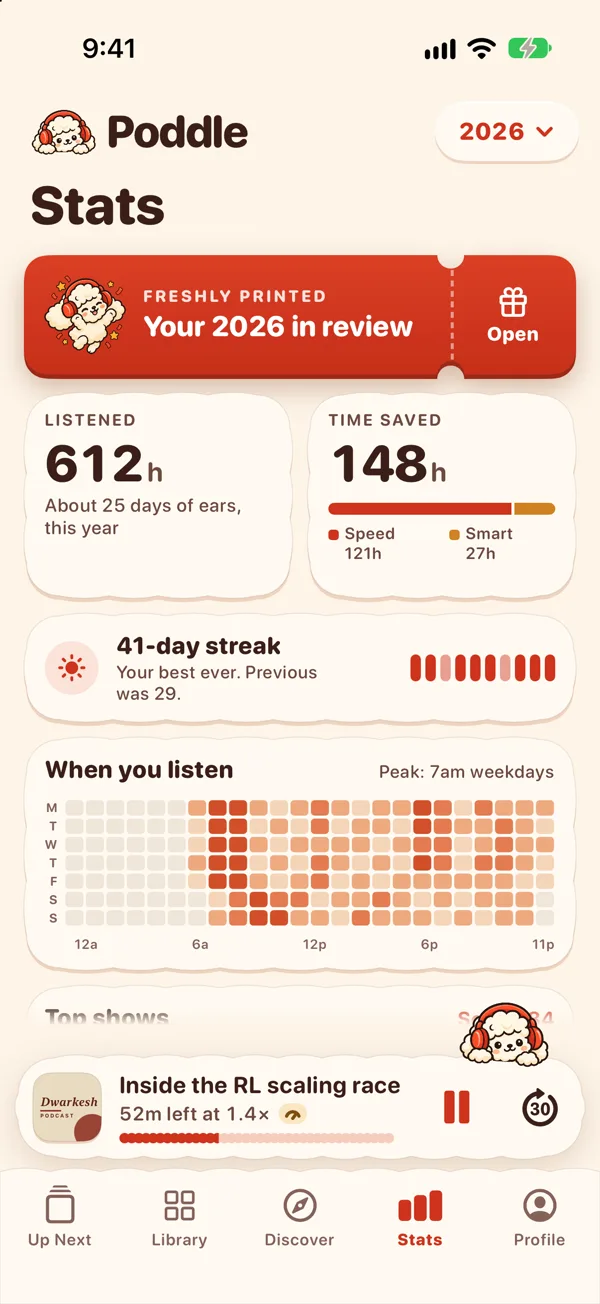
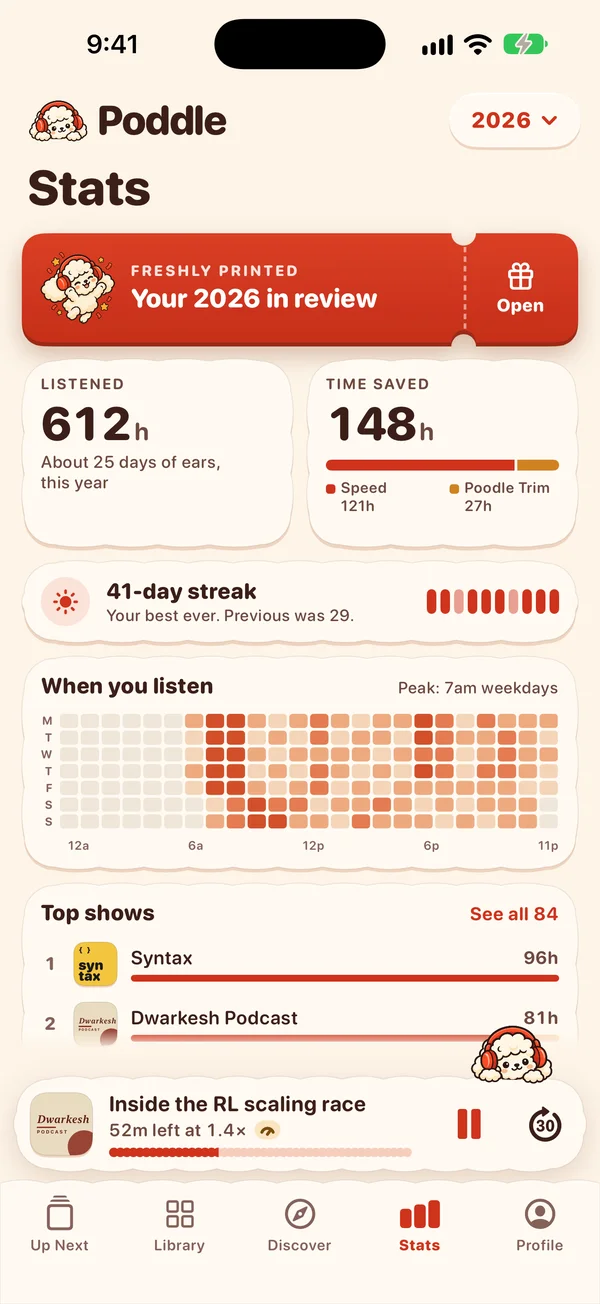
1.0.1: Poodle Trim and Even Volume in the app, and the release notes (#15)
* 1.0.1: Poodle Trim and Even Volume in the app, and release notes

Smart Speed and Voice Boost are Overcast's names, and the website and App Store
listing already say Poodle Trim and Even Volume (#7). Settings, show settings,
the Now Playing settings page, the Stats legend and the Year in Review receipt
and share text now match. Code identifiers and database fields stay as they are.

The version goes to 1.0.1, appstore/metadata.json gets "What's New" (sent by
appstore-metadata.mjs), and the runbook has the steps for shipping an update.
The Support page's note about the old names now reads true either side of the
release, so the site can deploy whenever.

* Website screens with Poodle Trim and Even Volume, and the runbook on what a new version copies

---------

diff --git a/App/Features/NowPlaying/PlaybackSettingsPage.swift b/App/Features/NowPlaying/PlaybackSettingsPage.swift
@@ -160,13 +160,13 @@ struct PlaybackSettingsPage: View {
     private var toggles: some View {
         GroupCard {
             Toggle(isOn: Binding(get: { r.smartSpeed.value }, set: { v in edit({ $0.smartSpeed = v }, { $0.smartSpeed = v }) })) {
-                cellLabel("Smart Speed", "Trims silences · \(Format.saved(player.smartSaved)) saved this episode", icon: "waveform.path", tint: Palette.mustard)
+                cellLabel("Poodle Trim", "Trims silences · \(Format.saved(player.smartSaved)) saved this episode", icon: "waveform.path", tint: Palette.mustard)
             }
             .toggleStyle(.poddle)
             .accessibilityIdentifier("playbackSettings.smartSpeed")
             .padding(.horizontal, 16).frame(minHeight: 60)
             Toggle(isOn: Binding(get: { r.voiceBoost.value }, set: { v in edit({ $0.voiceBoost = v }, { $0.voiceBoost = v }) })) {
-                cellLabel("Voice Boost", "Evens out loud and quiet voices", icon: "speaker.wave.2", tint: Palette.fern)
+                cellLabel("Even Volume", "Evens out loud and quiet voices", icon: "speaker.wave.2", tint: Palette.fern)
             }
             .toggleStyle(.poddle)
             .accessibilityIdentifier("playbackSettings.voiceBoost")

diff --git a/App/Features/YearInReview/YearInReviewView.swift b/App/Features/YearInReview/YearInReviewView.swift
@@ -135,7 +135,7 @@ struct YearInReviewView: View {
     }
 
     private func shareText(_ r: YearInReview) -> String {
-        "I listened to \(Format.hours(r.listenedSeconds)) of podcasts in \(r.year) and got \(Format.hours(r.savedSeconds)) back with speed and Smart Speed."
+        "I listened to \(Format.hours(r.listenedSeconds)) of podcasts in \(r.year) and got \(Format.hours(r.savedSeconds)) back with speed and Poodle Trim."
     }
 }
 
@@ -269,7 +269,7 @@ private struct ReceiptCard: View {
             dash
             line("TOTAL LISTENED", Format.hours(review.listenedSeconds)).font(.mono(14, .heavy))
             line("SAVED BY SPEED", "−" + Format.hours(review.savedBySpeedSeconds)).foregroundStyle(Color(hex: 0xB9411F))
-            line("SAVED BY SMART SPEED", "−" + Format.hours(review.savedBySmartSpeedSeconds)).foregroundStyle(Color(hex: 0xB9411F))
+            line("SAVED BY POODLE TRIM", "−" + Format.hours(review.savedBySmartSpeedSeconds)).foregroundStyle(Color(hex: 0xB9411F))
             dash
             line("USUAL SPEED", Format.speed(review.usualSpeed))
             line("PEAK HOUR", review.peakHourLabel.uppercased())

diff --git a/App/Features/Settings/SettingsView.swift b/App/Features/Settings/SettingsView.swift
@@ -108,9 +108,9 @@ struct SettingsView: View {
                                     onDecrement: { store.setSpeed(g.speed - 0.05, scope: .allPodcasts) },
                                     onIncrement: { store.setSpeed(g.speed + 0.05, scope: .allPodcasts) })
                     }
-                    toggle("Smart Speed", \.smartSpeed, subtitle: "Trims silences", icon: "waveform.path", tint: Palette.mustard)
+                    toggle("Poodle Trim", \.smartSpeed, subtitle: "Trims silences", icon: "waveform.path", tint: Palette.mustard)
                         .accessibilityIdentifier("settings.smartSpeed")
-                    toggle("Voice Boost", \.voiceBoost, subtitle: "Evens out loud and quiet voices", icon: "speaker.wave.2", tint: Palette.fern)
+                    toggle("Even Volume", \.voiceBoost, subtitle: "Evens out loud and quiet voices", icon: "speaker.wave.2", tint: Palette.fern)
                         .accessibilityIdentifier("settings.voiceBoost")
                     picker("Speed-up method", \.timePitch, TimePitchAlgorithm.allCases, \.label)
                 }

diff --git a/web/src/pages/SupportPage.tsx b/web/src/pages/SupportPage.tsx
@@ -31,8 +31,8 @@ export function SupportPage() {
         <p>
           Tap the speed button on the Now Playing screen to speed up (or slow down). Poddle's "Speech-tuned" speed-up is
           made for voices, so people sound like themselves rather than chipmunks. <b>Poodle Trim</b> trims the silences
-          between words, and <b>Even Volume</b> evens out the volume so quiet hosts are easier to hear. (In Poddle 1.0
-          they're still called Smart Speed and Voice Boost, and they'll get their new names in the next update.) Swipe left on Now
+          between words, and <b>Even Volume</b> evens out the volume so quiet hosts are easier to hear. (Poddle
+          1.0.0 still calls them Smart Speed and Voice Boost. They have their new names from 1.0.1.) Swipe left on Now
           Playing to change these, and turn on <b>Customize for</b> that show if you want different settings for one
           show.
         </p>

diff --git a/App/Features/Podcast/ShowSettingsSheet.swift b/App/Features/Podcast/ShowSettingsSheet.swift
@@ -33,8 +33,8 @@ struct ShowSettingsSheet: View {
                             update { $0.speed = v }
                         }
                     }
-                    boolMenu("Smart Speed", key: \.smartSpeed, global: g.smartSpeed)
-                    boolMenu("Voice Boost", key: \.voiceBoost, global: g.voiceBoost)
+                    boolMenu("Poodle Trim", key: \.smartSpeed, global: g.smartSpeed)
+                    boolMenu("Even Volume", key: \.voiceBoost, global: g.voiceBoost)
                     enumMenu("Speed-up method", key: \.timePitch, all: TimePitchAlgorithm.allCases, global: g.timePitch, label: \.label)
                 }
 

diff --git a/App/Features/Stats/StatsView.swift b/App/Features/Stats/StatsView.swift
@@ -78,7 +78,7 @@ struct StatsView: View {
                 .padding(.vertical, 6)
                 HStack(alignment: .top, spacing: 10) {
                     legend("Speed", Format.hours(s.savedBySpeedSeconds), Palette.tomato)
-                    legend("Smart", Format.hours(s.savedBySmartSpeedSeconds), Palette.mustard)
+                    legend("Poodle Trim", Format.hours(s.savedBySmartSpeedSeconds), Palette.mustard)
                 }
             }
         }

diff --git a/App/Features/NowPlaying/NowPlayingView.swift b/App/Features/NowPlaying/NowPlayingView.swift
@@ -481,7 +481,7 @@ private struct Transport: View {
     }
 }
 
-/// Speed, sleep timer, AirPlay and the queue, on puffy cream tiles. Smart Speed, Voice Boost and
+/// Speed, sleep timer, AirPlay and the queue, on puffy cream tiles. Poodle Trim, Even Volume and
 /// the rest live on the settings page; tapping the speed goes there.
 private struct UtilityRow: View {
     var item: EpisodeItem

diff --git a/docs/runbooks/appstore-release.md b/docs/runbooks/appstore-release.md
@@ -99,6 +99,17 @@ On the 1.0.0 version page and App Information, check:
 
 **Add for Review** at the top right of the version page, answer anything it still asks, then **Submit for Review** (or **Submit to App Review**). The status goes to "Waiting for Review". That's it: "Submitted for review".
 
+## Shipping an update (1.0.1 onwards)
+
+1.0.0 went out on 27 Oct 2026. For each update after that:
+
+1. Bump `MARKETING_VERSION` in `Poddle.xcodeproj/project.pbxproj` (all four lines, app and UI tests) and `version` in `appstore/metadata.json`, and write `whatsNew` there ("What's New in This Version", required for updates). Keep Overcast's names out of it.
+2. Check the build still works against prod's backend and the other way round: prod keeps serving the old version until people update, so a Convex change the new app needs has to be deployed first, and it mustn't break the old app.
+3. `node scripts/appstore-metadata.mjs --dry-run`, then without `--dry-run`. With nothing being prepared it creates the new version. App Store Connect copies the previous version's description, keywords, review details and screenshots into it, but not the promotional text, which the script fills in.
+4. If the screens changed, retake the screenshots (step 6) and upload them with `node scripts/appstore-screenshots.mjs <pngs in order>`, which replaces the set.
+5. `UPLOAD=1 scripts/appstore-upload.sh`, then `node scripts/appstore-submit.mjs <build> --submit`.
+6. Once it's approved, release it (App Store Connect, or `POST /v1/appStoreVersionReleaseRequests` with the version's id).
+
 ## If it's rejected
 
 Read the message in App Store Connect > Resolution Center. Fix it, bump nothing (the version stays 1.0.0), upload a new build with `UPLOAD=1 scripts/appstore-upload.sh` (it gets a new build number), choose it in step 8, and resubmit. Listing-only fixes just need the metadata script again and a resubmit.
